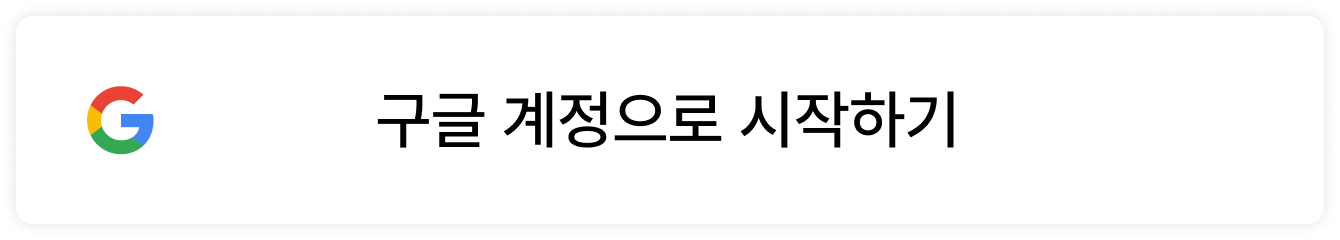
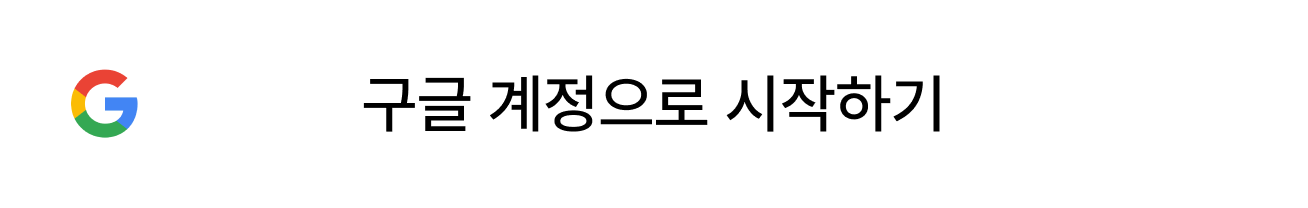
시작 페이지, 소셜 로그인 페이지 구현 완료 (박스 섀도우 수정 필요)

Changed region(s): [[0.2752, 0.3462, 0.7339, 0.6346], [0.0306, 0.3173, 0.1223, 0.6635]]

diff --git a/src/components/login/login.components.jsx b/src/components/login/login.components.jsx
@@ -11,6 +11,23 @@ function Login() {
         style={{ marginTop: "200px", width: "173px", marginBottom: "101px" }}
       />
       <LogoText>어쩌구저쩌구, 마이플랜잇</LogoText>
+      <Buttons>
+        <Button
+          primary
+          onClick={() => {
+            alert("둘러보기");
+          }}
+        >
+          둘러보기
+        </Button>
+        <Button
+          onClick={() => {
+            navigate("/login");
+          }}
+        >
+          가입하기
+        </Button>
+      </Buttons>
     </div>
   );
 }
@@ -23,10 +40,33 @@ const LogoText = styled.span`
   font-family: Pretendard;
   font-style: normal;
   font-weight: normal;
-  font-size: 17px;
+  font-size: 17.5px;
   line-height: 20px;
   text-align: center;
   color: #929292;
+`;
+
+const Button = styled.button`
+  display: flex;
+  justify-content: center;
+  align-items: center;
+  margin-top: 20px;
+  width: 327px;
+  height: 52px;
+  border: 1px solid transparent;
+  border-color: #d9d9d9;
+  border-radius: 4px;
+  background: ${(props) => (props.primary ? "#7965f4" : "white")};
+  color: ${(props) => (props.primary ? "white" : "#7965f4")};
+  font-family: PretendardMedium;
+  font-size: 16px;
+  filter: ${(props) =>
+    props.primary ? null : "drop-shadow(0px 0px 2px rgba(0, 0, 0, 0.12))"};
+`;
+
+const Buttons = styled.span`
+  position: absolute;
+  bottom: 95px;
 `;
 
 export default Login;

diff --git a/src/components/login/SocialLogin.components.jsx b/src/components/login/SocialLogin.components.jsx
@@ -63,14 +63,22 @@ function Login() {
         <img
           src="/images/google_login.png"
           alt="googleLogin"
-          style={{ marginTop: "15px" }}
+          style={{
+            marginTop: "15px",
+            border: "1px solid transparent",
+            borderColor: "#d9d9d9",
+            borderRadius: "4px",
+            filter: "drop-shadow(0px 0px 1px rgba(0, 0, 0, 0.12))",
+          }}
           onClick={() => alert("구글 로그인")}
         />
 
         <img
           src="/images/kakao_login.png"
           alt="kakaoLogin"
-          style={{ marginTop: "15px" }}
+          style={{
+            marginTop: "15px",
+          }}
           onClick={() => alert("카카오 로그인")}
         />
       </LoginButtons>
